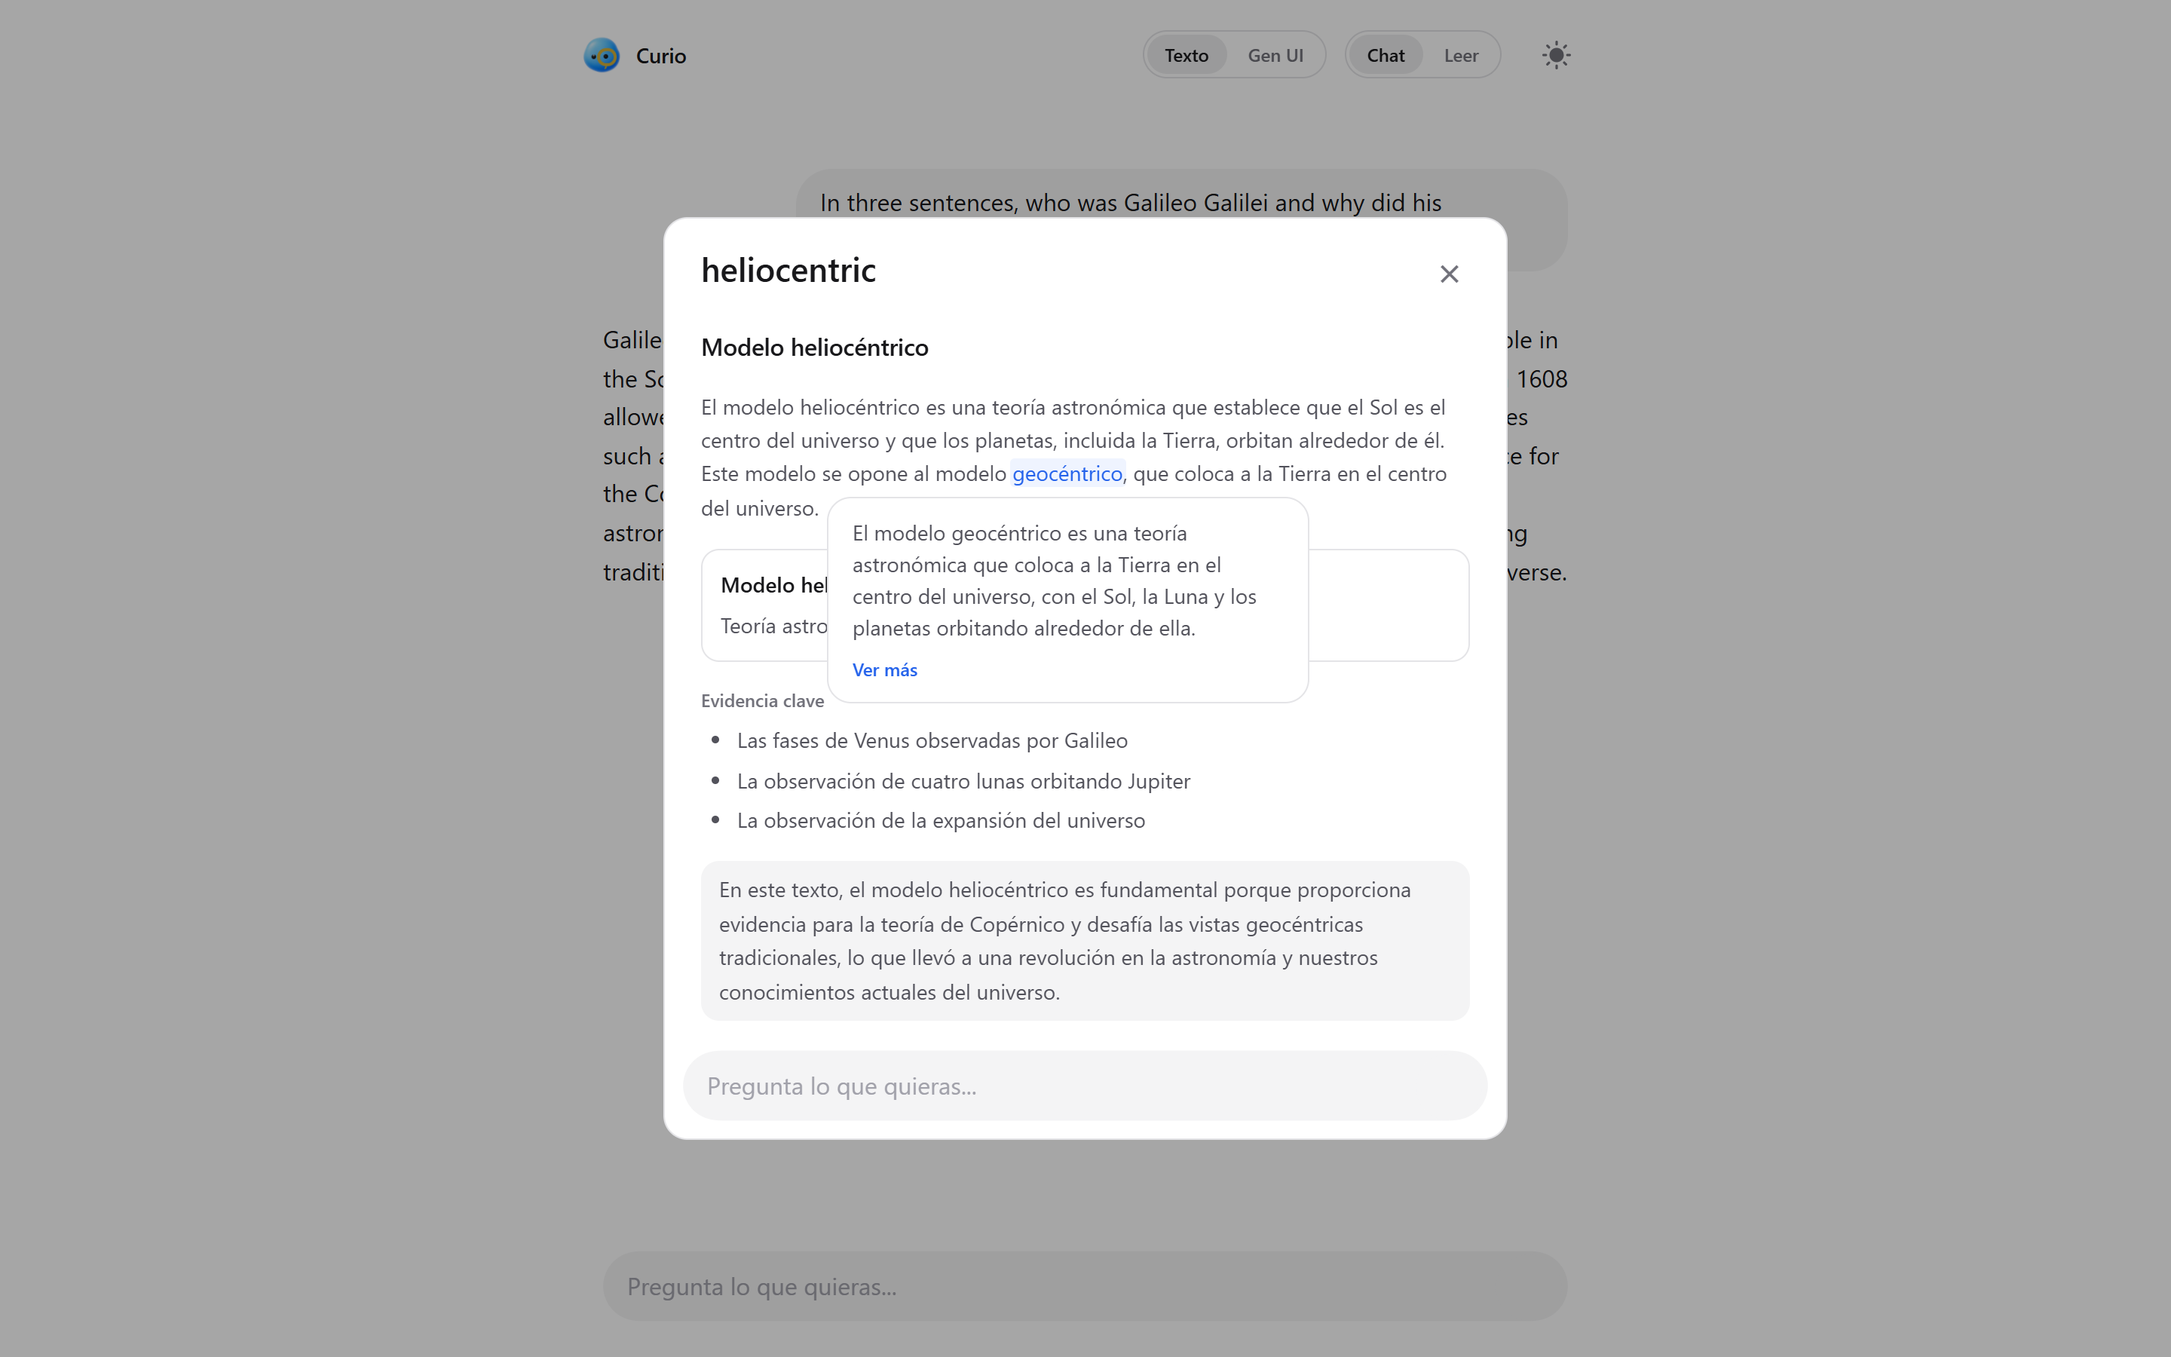
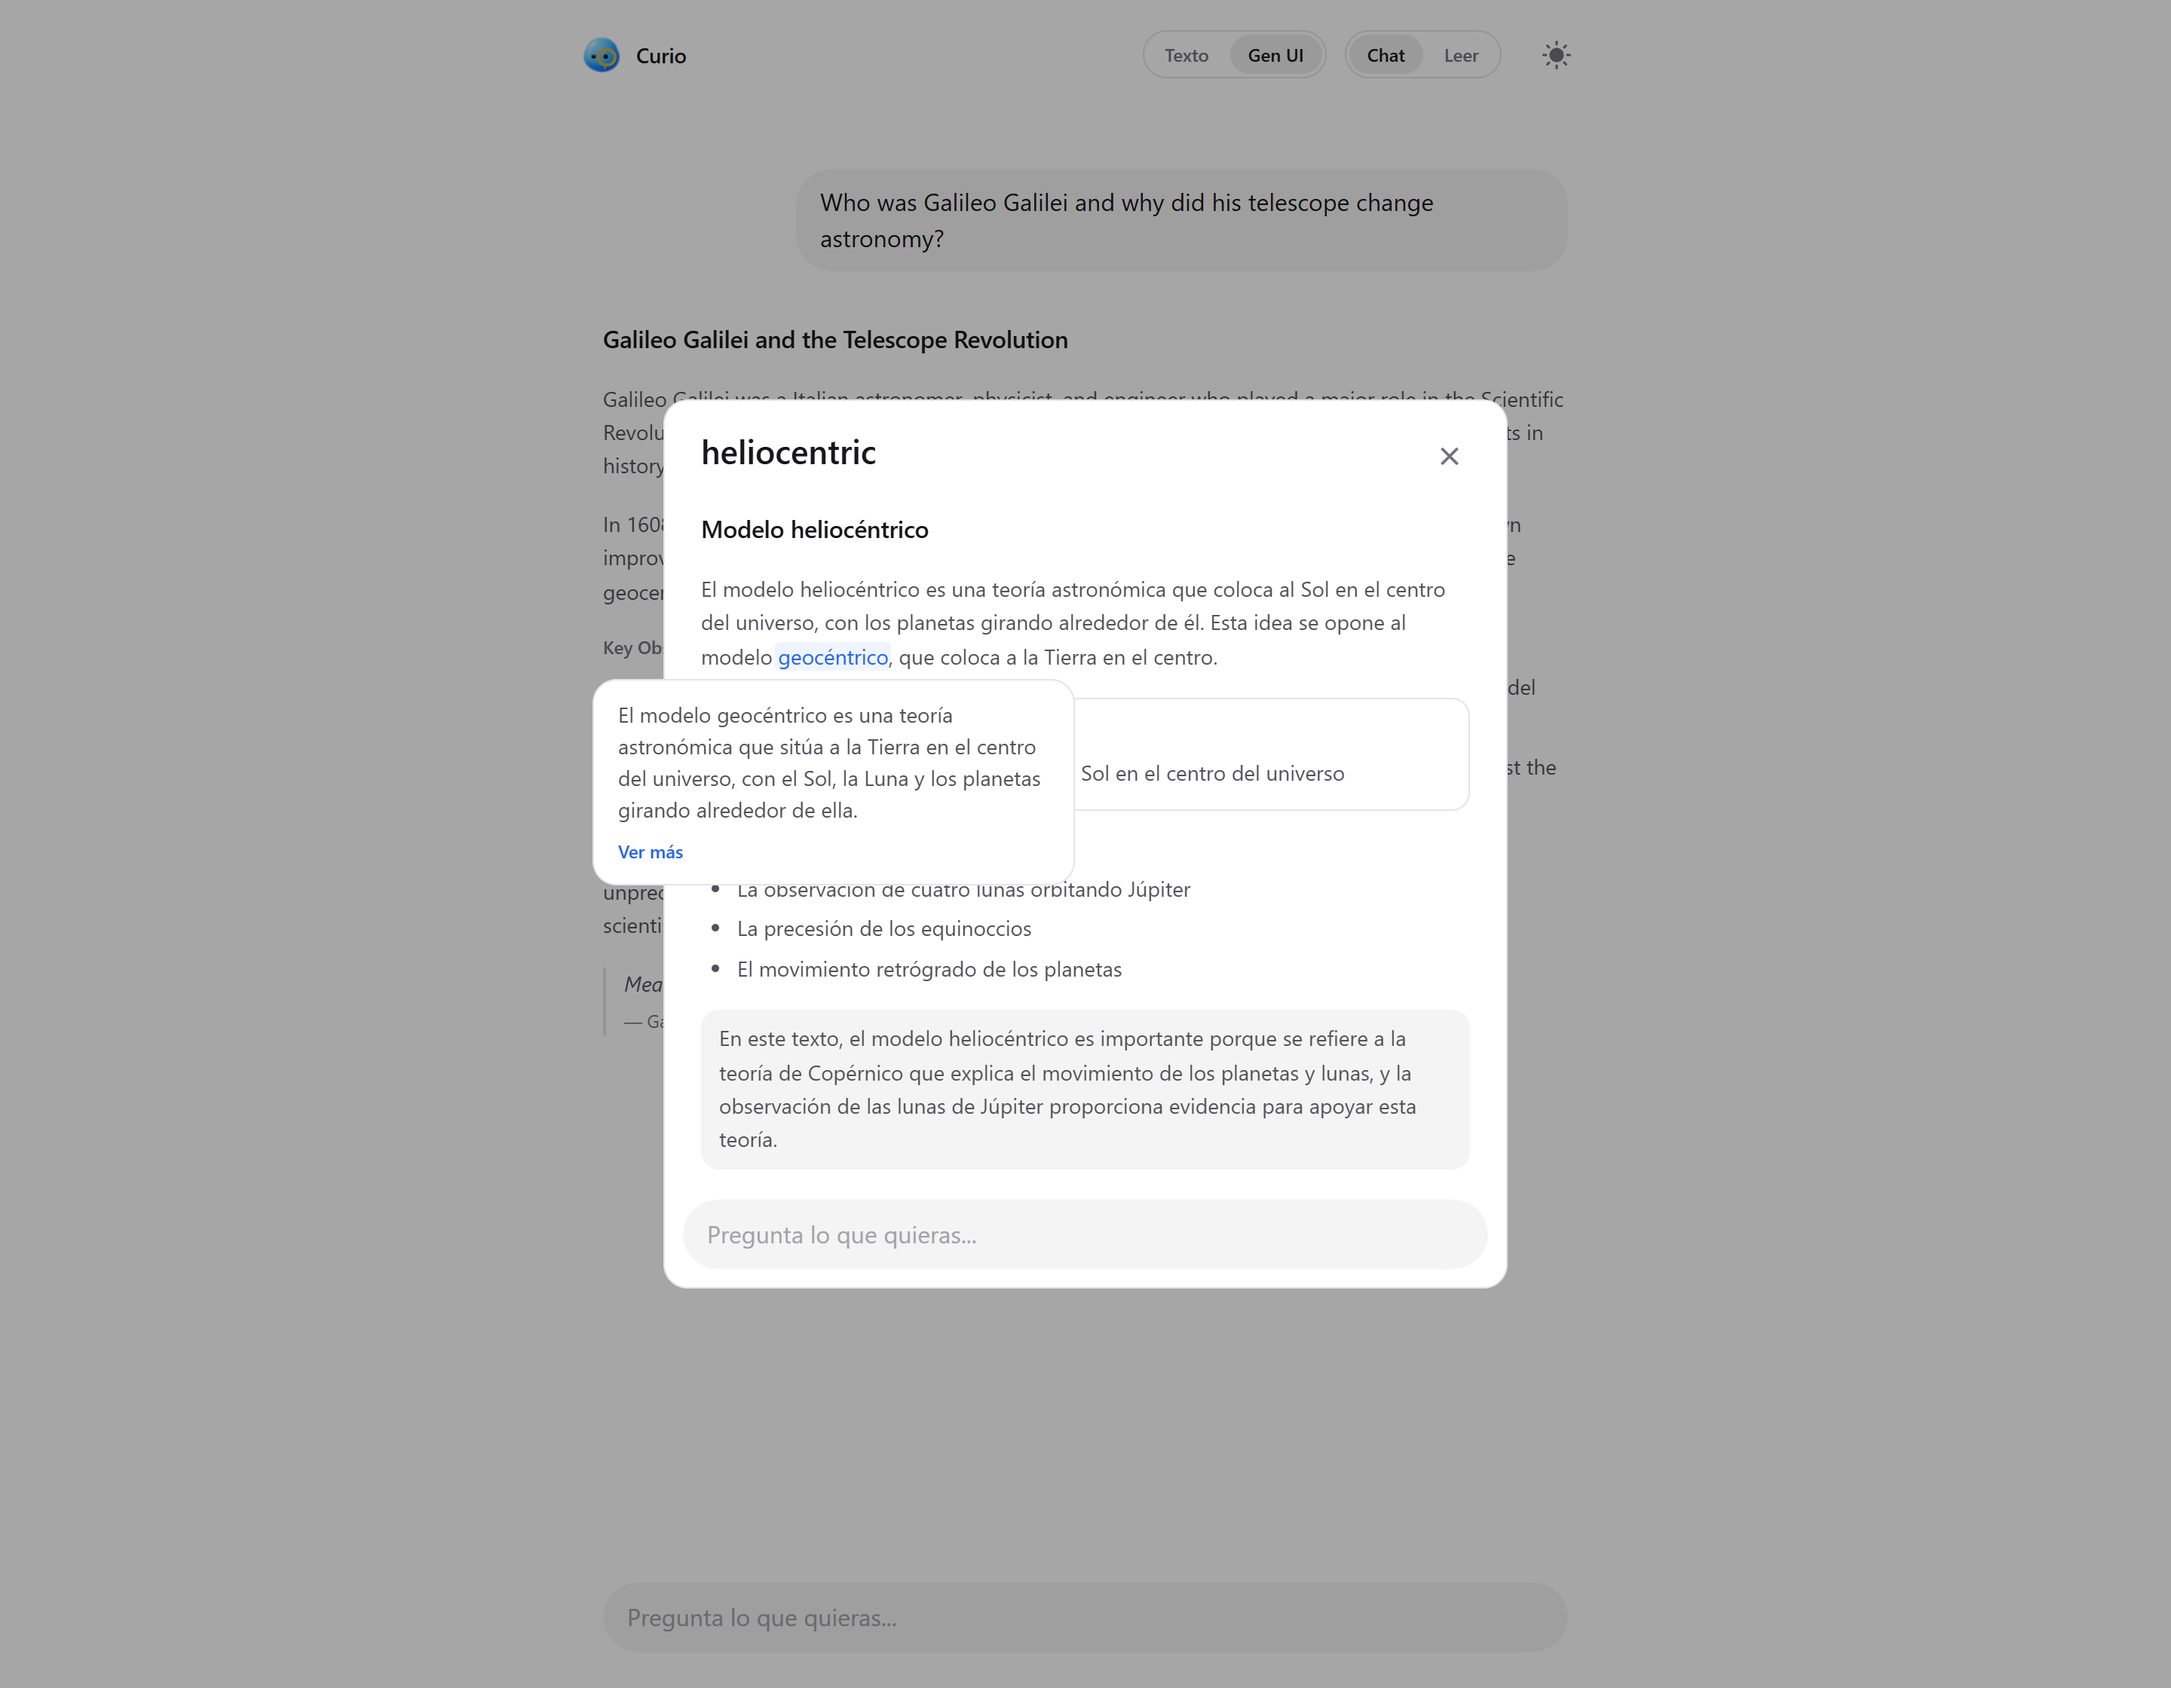
docs: recapture with Gen UI on
The previous set was shot in Texto mode, so the header showed Gen UI switched
off and the replies were plain prose — the screenshots undersold what the app
does. Retaken with Gen UI selected everywhere.

The chat question also changed: "in three sentences, who was Galileo..." pushed
the model into a single Prose piece, which looks identical to plain text. Left
open, it composes a heading, prose, a key stat and a bullet list — so
click-to-explain now shows a word lit up inside a composed answer.

Read mode is the biggest gain: the pasted article comes back re-expressed as a
definition card, a key figure, a timeline and a pull quote, with "Reformation"
clicked and explained in place. README wording for that section updated to say
so, and a note that every screenshot is taken with Gen UI on.

The modal shots (see-more, inline popover, breadcrumb, follow-up) are taken in a
taller window: a composed panel overflows the card at 900px and the closing
callout was being clipped mid-sentence by the composer.

diff --git a/README.md b/README.md
@@ -48,9 +48,10 @@ point. The point is the click.
 
 <div align="center">
 
-<img src="docs/media/click-to-explain.png" alt="Click 'heliocentric' and its description appears inline, in context, with a 'Ver más' link" width="88%" />
+<img src="docs/media/click-to-explain.png" alt="Click 'heliocentric' inside a composed reply and its description appears inline, in context, with a 'Ver más' link" width="88%" />
 
-<em>Click a word — here, <strong>heliocentric</strong> — and the explanation appears right there, in context.</em>
+<em>Click a word — here, <strong>heliocentric</strong> — and the explanation appears right there, in
+context. Every word is clickable, whether the reply is prose or, as here, composed of components.</em>
 
 </div>
 
@@ -80,7 +81,7 @@ point. The point is the click.
   bullet list, quote, code block, key stat, callout, tags, **bar list, line chart and donut** — and
   fills them with **validated data**, falling back to text if anything's off. For something that
   genuinely has to be interactive, it can return a **sandboxed HTML document**. It never
-  hand-writes markup into the page.
+  hand-writes markup into the page. _The screenshots throughout are taken with **Gen UI** on._
 - 🧠 **A pluggable brain.** Runs on **Ollama** (local) or any **OpenAI-compatible API** with your
   own key (Groq, OpenRouter, LocalAI, your own server…) — swap freely.
 - 🌗 **Light and dark themes**, following your system or forced by hand.
@@ -97,7 +98,7 @@ closes with what it's doing in the text you're reading:
 
 <div align="center">
 
-<img src="docs/media/see-more.png" alt="The 'See more' panel for heliocentric: heading, explanation, a definition card, key evidence and a closing 'En este texto' callout" width="70%" />
+<img src="docs/media/see-more.png" alt="The 'See more' panel for heliocentric: heading, explanation, a definition card, a fact table and a closing 'En este texto' callout" width="70%" />
 
 </div>
 
@@ -240,12 +241,14 @@ Full detail in [`docs/ARCHITECTURE.md`](docs/ARCHITECTURE.md).
 ## Read mode
 
 Flip the toggle to **Read**, paste an article, and the same "click → explain" engine works on any
-text you throw at it. Turn on **Gen UI** to read it in a friendlier shape.
+text you throw at it. With **Gen UI** on, the reader doesn't just show your text — it **re-expresses
+it**: the same facts, laid out as a definition card, a key figure, a timeline, a pull quote. Nothing
+invented, only rearranged for skimming — and every word still clickable.
 
 <div align="center">
 
-<img src="docs/media/read-light.png" alt="Read mode — paste a text and click through it (light theme)" width="49%" />
-<img src="docs/media/read-dark.png" alt="Read mode — dark theme" width="49%" />
+<img src="docs/media/read-light.png" alt="Read mode — a pasted article re-expressed as components, with a word clicked and explained in place (light theme)" width="49%" />
+<img src="docs/media/read-dark.png" alt="The same re-expressed reading in the dark theme" width="49%" />
 
 </div>
 
